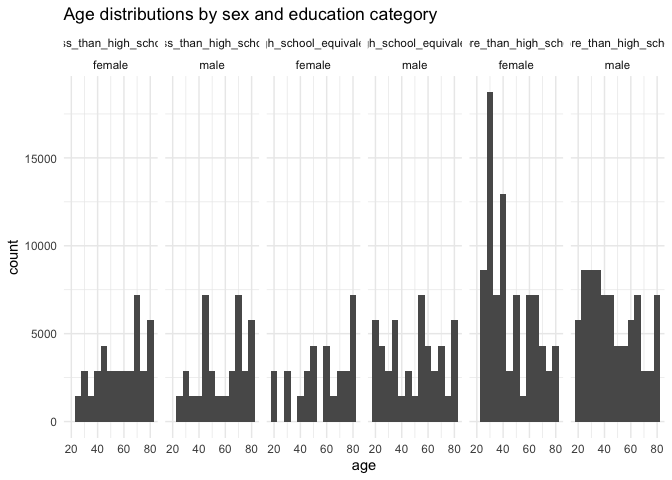
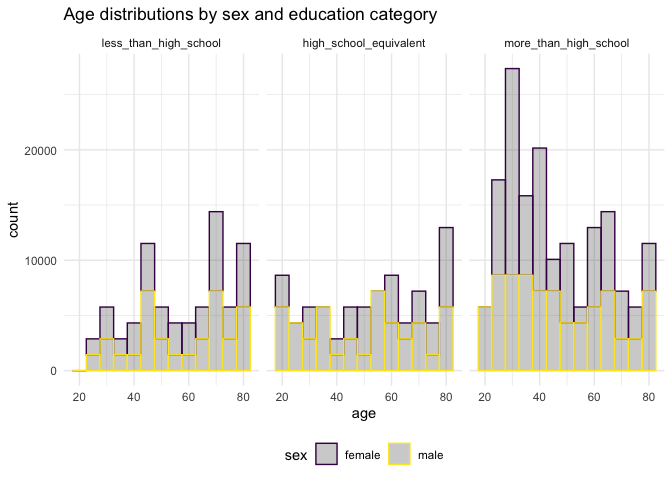
modify previous part + Question 2 - create sum of activity in a day and plot using total activities, age, sex, education

diff --git a/p8105_hw3_sp4170.md b/p8105_hw3_sp4170.md
@@ -214,9 +214,9 @@ final_df |>
 ``` r
 final_df |> 
   select(sex, education, age) |> 
-  ggplot(aes(x = age)) +
-  geom_histogram(binwidth = 5) +
-  facet_grid(. ~ education + sex) +
+  ggplot(aes(x = age, color = sex))+
+  geom_histogram(binwidth = 5, alpha = 0.3) +
+  facet_grid(. ~ education) +
   labs(
     title = 'Age distributions by sex and education category'
   )
@@ -237,6 +237,9 @@ final_df |>
       equivalent.
     - Among males, least participants are educated as less than high
       school.
+    - for group of getting less than high school education and getting
+      more than high school education, counts of females are larger than
+      of males.
 - 2nd part code
   - *comments*:
     - among those with less than high school education, most females
@@ -245,3 +248,51 @@ final_df |>
       aged around 80 and most males aged around 55.
     - among those with more than high school education, most females
       aged around 30 and most males aged around 30.
+    - we can see that the age distribution of females are more skewed
+      for those who received more than high school education, while of
+      males are more average across age.
+    - for group of getting less than high school education and getting
+      more than high school education, counts of females are larger than
+      of males.
+
+### Question 2
+
+- Using your tidied dataset, aggregate across minutes to create a total
+  activity variable for each participant.
+- Plot these total activities (y-axis) against age (x-axis); your plot
+  should compare men to women and have separate panels for each
+  education level. Include a trend line or a smooth to illustrate
+  differences. Comment on your plot.
+
+``` r
+final_df |>
+  group_by(seqn) |> 
+  mutate(sum_activity = sum(mims)) |> 
+  select(seqn, sex, age, education, sum_activity) |> 
+  distinct() |> 
+  ggplot(aes(x = age, y = sum_activity, color = sex)) +
+  geom_smooth() +
+  facet_grid(. ~ education) +
+  labs(
+    title = 'Total activity over the day by sex and education'
+  )
+```
+
+    ## `geom_smooth()` using method = 'loess' and formula = 'y ~ x'
+
+![](p8105_hw3_sp4170_files/figure-gfm/unnamed-chunk-9-1.png)<!-- -->
+
+I include a smooth in my plot.
+
+- *comments*:
+  - for each education group, the sum_activity would decrease when ages
+    increase for both genders.
+  - for education group that is high school equivalent and more than
+    high school, in most age, the sum_activity for females surpass
+    males.
+  - for education group that is less than high school, before around 40
+    years old, females have sum_activity greater than males. after
+    around 40 years old, the situation reverses.
+  - based on the plots, the group of less than high school education and
+    the group of high school equivalent education have wider variations
+    than the group of more than high school education.
